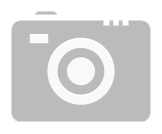
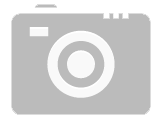
menu

diff --git a/thinksimple/menu.html b/thinksimple/menu.html
@@ -58,7 +58,7 @@
    <div class="holder_content" id="holder_content">
    
    <div class="group1 item">
-    <img id="I1" class="group_img" src="images/cam.png" style="padding-top:0px; width:64%; padding-bottom:20px"> </img>
+    <img id="I1" class="group_img" src="images/cam.png"> </img>
      <div class="title" id="about" >Snap</div>
      <div class="clear"></div>
       <p id="about_text"  class="group_text">Lorem ipsum dolor sit amet, consectetuer adipiscing elit. Donec molestie. Sed aliquam sem ut arcu. Phasellus sollicitudin. 
@@ -69,7 +69,7 @@
    
      
    <div class="group2 item">
-    <img id="I2" class="group_img" src="images/type.png" style="padding-top:22px; padding-bottom:35px"> </img>
+    <img id="I2" class="group_img" src="images/type.png"> </img>
    <div class="title" id="services">Type</div>
 <div class="clear"></div>
     <p id="services_text" class="group_text">Lorem ipsum dolor sit amet, consectetuer adipiscing elit. Donec molestie. Sed aliquam sem ut arcu. Phasellus sollicitudin. 
@@ -81,7 +81,7 @@
 
        
    <div class="group3 item">
-    <img id="I3" class="group_img" src="images/globe.png" style="width:56%"> </img>
+    <img id="I3" class="group_img" src="images/globe.png"> </img>
    <div class="title" id="news">Share</div>
    <div class="clear"></div>
     <p id="news_text"  class="group_text">Lorem ipsum dolor sit amet, consectetuer adipiscing elit. Donec molestie. Sed aliquam sem ut arcu. Phasellus sollicitudin. 

diff --git a/thinksimple/css/kiru.css b/thinksimple/css/kiru.css
@@ -133,6 +133,6 @@ body { font-family:'Lucida Grande'; background:#333; }
 .group_img {  
     display: block;
     margin: 0 auto;
-    padding-bottom:30px;
+    padding-bottom:26px;
 }
  
